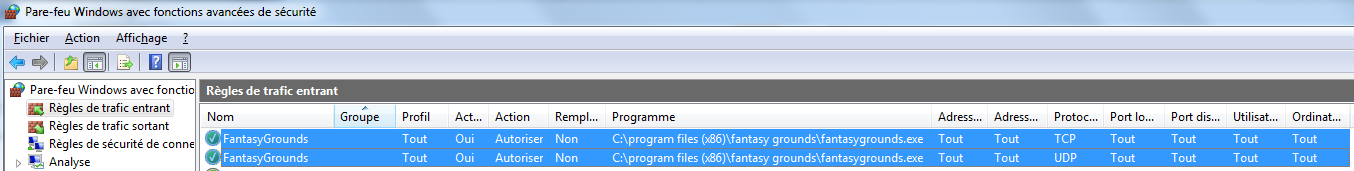
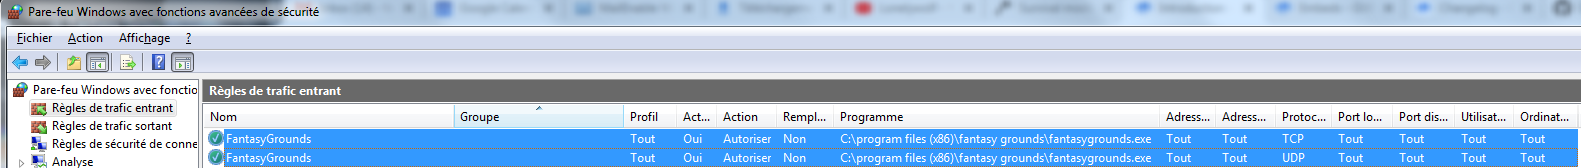
GitBook: [master] 7 pages and 3 assets modified

diff --git a/to-be-rewritten/zzz-initial-article-to-be-formatted.md b/to-be-rewritten/zzz-initial-article-to-be-formatted.md
@@ -1,4 +1,4 @@
-# ZZZ-Initial raw article to be formatted
+# ZZZ-Initial raw article to be re-written
 
 A small OpenVPN virtual server on AWS to publish Fantasy Grounds through a 1-DM-only VPN By ZeFerby
 
@@ -96,7 +96,7 @@ My-CA-for-FG-OVPN\my-fg-ovpn-single-dm Must contain : my-fg-ovpn-ca.crt \(from s
 
 Details for Step 6 : Create your FG-OpenVPN Linux server in your AWS Virtual Private Cloud
 
-6.0- Head over to the AWS EC2 Console 6.1- Choose an AZ/subnet in your AWS VPC, with Internet access \(you will need a private IP + a public IP\) 6.2- Select a private IP for your OpenVPN server in the subnet you chose if you want it to be static \(not required if using my auto-configuration script\) 6.3- Create/Launch a new instance : 6.3.1- Select the basic Amazon Linux AMI \(64-bit, HVM, SSD volume type\) 6.3.2- Select a small \(free tier elligible\) t2.micro instance type and click "Next: Configure Instance Details" 6.3.3- Instance Details : 6.3.3.1- Select Your Network/VPC and your AZ/subnet, be sure to have Auto-assign Public IP=Enable 6.3.3.2- Select your EC2 role \(from step 4.3\) 6.3.3.3- If you chose a static Private IP at step 6.2, specify it in the "eth0" network interface "Primary IP" 6.3.3.4- Expand the "Advanced Details" section and copy "as text" the entire contents of my-fg-ovpn-UserData.txt \(properly edited at step 5.2\) in the "UserData" entry box. 6.3.3.9- Finally, click "Next: Add Storage" 6.3.4- Keep all defaults and click "Next: Add Tags" 6.3.5- If you want, you can add tags \(name/value pairs\) like Name : MyFGovpn, finish with a click on "Next: Configure Security Group" 6.3.6- Select the Security Group you created at Step 4.1, then click "Review and Launch" 6.3.7- You can review all the settings and go back to previous steps to edit your choices, before ending with the "Launch" button 6.3.8- Then if you don't already have an AWS SSH key you'll need to create one and download it \(to be used with PuTTY for SSH access\) 6.4- While you server is being created and begins it's auto-configuration, copy it's Public IP 6.5- Using your Windows OpenVPN GUI, right click/edit config to enter the Public IP on the "remote" line, then close/save the file. 6.6- Enjoy !
+6.0- Head over to the AWS EC2 Console6.1- Choose an AZ/subnet in your AWS VPC, with Internet access \(you will need a private IP + a public IP\) 6.2- Select a private IP for your OpenVPN server in the subnet you chose if you want it to be static \(not required if using my auto-configuration script\) 6.3- Create/Launch a new instance : 6.3.1- Select the basic Amazon Linux AMI \(64-bit, HVM, SSD volume type\) 6.3.2- Select a small \(free tier elligible\) t2.micro instance type and click "Next: Configure Instance Details" 6.3.3- Instance Details : 6.3.3.1- Select Your Network/VPC and your AZ/subnet, be sure to have Auto-assign Public IP=Enable 6.3.3.2- Select your EC2 role \(from step 4.3\) 6.3.3.3- If you chose a static Private IP at step 6.2, specify it in the "eth0" network interface "Primary IP" 6.3.3.4- Expand the "Advanced Details" section and copy "as text" the entire contents of my-fg-ovpn-UserData.txt \(properly edited at step 5.2\) in the "UserData" entry box. 6.3.3.9- Finally, click "Next: Add Storage" 6.3.4- Keep all defaults and click "Next: Add Tags" 6.3.5- If you want, you can add tags \(name/value pairs\) like Name : MyFGovpn, finish with a click on "Next: Configure Security Group" 6.3.6- Select the Security Group you created at Step 4.1, then click "Review and Launch" 6.3.7- You can review all the settings and go back to previous steps to edit your choices, before ending with the "Launch" button 6.3.8- Then if you don't already have an AWS SSH key you'll need to create one and download it \(to be used with PuTTY for SSH access\) 6.4- While you server is being created and begins it's auto-configuration, copy it's Public IP 6.5- Using your Windows OpenVPN GUI, right click/edit config to enter the Public IP on the "remote" line, then close/save the file. 6.6- Enjoy !
 
 Important : Remember this: with these basic settings, each time you start your virtual machine it will get a new public IP, so you'll have to :
 

diff --git a/general/vpn-solutions.md b/general/vpn-solutions.md
@@ -4,18 +4,18 @@
 Thankfully, if you find yourself in a NO-GO situation, and **as long as your can establish outgoing connections** to the Internet, **you should be able to use some kind of VPN-based solution**.
 {% endhint %}
 
-There are **multiple commercial offers for VPN services** available nowadays.
+There are **multiple commercial offers for VPN \(=Virtual Private Network\) services** available nowadays.
 
 Many of them are targetted at : either hiding your own public IP address, or gaining full access to the Internet in countries where the government imposes harsh restrictions.
 
 Others provide one or multiple kinds of "real" VPNs functionnality like "closed VPNs".
 
-**Some of them** \(like [Hamachi](https://www.vpn.net/), which is well knwown in the gaming sphere\) **provide a free tier**.
+**Some of them** \(like [Hamachi](https://www.vpn.net/), which is well known in the gaming sphere\) **provide a free tier**.
 
 {% hint style="info" %}
 I have not actively tested commercial VPN offers other than Hamachi.
 
-Hamachi is a very neat solution for "closed VPNs" with multiple options for network setup and it supports Windows, Mac, Linux and mobile platforms.
+Hamachi is a very neat solution for "closed" VPNs with multiple options for network setup and it supports Windows, Mac, Linux and mobile platforms.
 
 Their free tier is very good and quite sufficient for FG-like requirements \(you can host 4 players in a free VPN and create multiple VPNs simultaneously for more players if needed\).
 
@@ -55,15 +55,15 @@ Be cautious about several points :
 * VPN service offers **do not mandatorily have an available/reliable free tier**
 * VPN service offers **do not mandatorily support forwarding TCP 1802**
 
-## Your own VPN server based on industry standards
+## Your own 1 GM-only VPN server based on industry standards
 
 What we propose in the following sections is creating your own VPN server to "break barriers 4-6" :
 
 * based on **SSL/TLS with** [**OpenVPN Community**](https://openvpn.net/community/) edition
 * hosted on a **minimalist Linux virtual server at AWS** \(Amazon Web Services\)
 * **mono-client** : the GM \(you\) only
-* with pre-installed **FG-only port forwarding**
-* for a **cost of $0 or a neglectable cost** if are not elligible for the free tier or already exceed its bounds due to other usage of AWS
+* with pre-installed **FG-only port forwarding** \(this is independant of the VPN itself\)
+* for a **cost of $0 \(or a neglectable cost** if you are not elligible for the free tier or already exceed its bounds due to other usage of AWS\)
 * **"transparent" for the players**
 * **non-intrusive for the GM's machine**
 * **100% under your own control** : **you** are the VPN service provider, and you are your **only** client 😁 
@@ -73,7 +73,7 @@ It does require some initial setup effort, which then makes it a no-brainer to s
 {% hint style="info" %}
 If you want to discover more/advanced options, **OpenVPN has nearly endless possibilities**.
 
-I have now used it since 2004 both for professional and personal usage and it is **to this day my preferred VPN foundation, including for mobile platforms**.
+I have now used it since 2004 both for professional and personal usage in various server and clients configurations, on Linux/Windows/Android, and it is **to this day my preferred VPN foundation, including for mobile platforms**.
 
 Quite a number of commercial VPN offers either rely on, or support OpenVPN.
 {% endhint %}

diff --git a/general/transparent-openvpn-solution-presentation.md b/general/transparent-openvpn-solution-presentation.md
@@ -1,4 +1,60 @@
 # Non-intrusive, "transparent" VPN-based Port Forwarding
 
-x
+We already gave the salient points about the kind of setup we propose in the previous paragraph, so let's have a closer look at the Why's and How's...
+
+## Objectives
+
+### Primary objective
+
+{% hint style="success" %}
+#### For 1 GM, ability to host FG games even in a "NO-GO situation"
+{% endhint %}
+
+Relying on **a hosted virtual machine which can accept TCP 1802** incoming connections from the Internet, **forward "transparently" all TCP 1802 traffic to and from the GM's machine** on a VPN-secured private connection.
+
+### Secondary objectives
+
+* **do NOT require a VPN connection on the players side** : by handling all port forwarding aspects on a single "point of contact" \(the VPN server for the GM is also the GM's FG address as seen from the players\)
+* provide the **least possible "intrusiveness" to the GM's machine configuration**
+* **minimize costs for the GM** to $0 or at most &lt; $10/year
+* introduce **NO dependancy for the GM on any external company/organization** \(except of course the need of virtual server hosting\)
+
+### Other benefits
+
+* **most possible versatile solution** : OpenVPN, when you have administrative of both the VPN server and client, enables you to taylor the solution according to you exact wishes
+* "owned" security : **You have absolute authority** on your whole setup and **you don't need to "share" any security info with anyone**
+* fully "destroyable" : **you can easily get rid** of your whole VPN infrastructure at any time
+
+### Drawbacks
+
+* **Initial setup effort** : we'll mitigate that with step-by-step instructions on the whole process
+* **FG Alias and "Connection test" will not work** \(like most other VPN-based solutions\) : you'll have to either rely on DNS or give the public IP of your VPN server to your players instead of an alias
+
+
+
+## Implementation
+
+You will build :
+
+* **a Certificate Authority** on your own machine \(to keep the core security off-line from the VPN server itself\) with which you'll manage the certificates identifying the VPN server and the VPN clients. _Actually you'll need only one client certificate : your own GM FG machine_
+* **a private AWS storage space \(called an "AWS S3 bucket"\)**, to store some security parameters and startup scripts for the VPN server
+* a small **AWS virtual server to run the VPN and TCP 1802 port forwarding**, **auto-configured at startup \(**using the security parameters and startup script files stored in the S3 bucket\)
+
+{% hint style="success" %}
+This technique \(keeping parameters and scripts in S3\) **enables you to destroy \(AWS calls that "terminate"\) and re-create your virtual server at will.**
+{% endhint %}
+
+{% hint style="info" %}
+That helps **bringing the running costs down to nearly $0 even if you are outside of the AWS free tier bounds**, and the server startup delay is neglectable.
+
+If you prefer, you can also **start/stop the virtual server**, keeping its "hard disk" storage between multiple uses instead of having it destroyed, but if you are outside of the AWS free tier you may incurr a small monthly cost, and this server should not store any data anyway, so...
+{% endhint %}
+
+
+
+
+
+
+
+
 

diff --git a/general/introduction.md b/general/introduction.md
@@ -12,7 +12,7 @@ As a Game Master, **hosting a virtual table** implies that the table \(= actuall
 Fantasy Grounds \("Classic"\) uses **TCP port 1802 on IPv4** for communications between the GM and player Fantasy Grounds instances.
 {% endhint %}
 
-So, to join a GM's virtual table, **a player's FG only has to know/find the GM's IP address** where it will be able to connect to \(on the TCP 1802 port\).
+So, to join a GM's virtual table, **a player's FG only has to know/find the GM's IP address** where it will be able to connect to \(always on the TCP 1802 port\).
 
 The IP\(v4\) address used will be one of :
 
@@ -20,7 +20,7 @@ The IP\(v4\) address used will be one of :
 2.  the **GM's "private IP"** address for players located **in the same local network**
 
 {% hint style="warning" %}
-Be aware of the above **distinct requirements for player connection from the Internet / from the in-house network** \(same ethernet LAN or wireless access point\).
+Be aware of the above **distinct requirements for player connection from the Internet vs. from the in-house network** \(same ethernet LAN or wireless access point\).
 {% endhint %}
 
 ## What can go wrong ?
@@ -31,7 +31,7 @@ Network setup combinations are infinite; in this docment we focus on the usual "
 
 So let's have a quick look at the barriers between your players and your shiny new virtual table, starting from your own "GM Fantasy Grounds" outwards; with "Barrier 4" we'll go into the "**Port Forwarding**" subject many GMs are afraid of.
 
-Then we'll talk about some no-go situations that relate to the last 2 barriers and are "out of reach" for the GM.
+Then we'll talk about some no-go situations that relate to the last 3 barriers and are "out of reach" for the GM.
 
 And finally we'll introduce VPN solutions and more specifically the non-intrusive "transparent" setup we present in the rest of this document, and how it enables a GM to overcome these barriers.
 
@@ -40,7 +40,7 @@ The following can also be used as a reminder / check-list for every GM out there
 {% endhint %}
 
 {% hint style="success" %}
-You can **test the first 3 "barriers" locally with 2** _**different**_ **machines** : one being the GM sharing the virtual table, and the other acting as a "local" player : a player on a _different machine than the GM's, but connected to the same \(W\)LAN._
+You can **test the first 3 "barriers" locally with 2** _**different**_ **machines** : one being the GM sharing the virtual table, and the other acting as a "local" player : a player on a _different machine than the GM's, but connected to the same LAN or WLAN._
 
 A demo version of FG on the second machine is ok for this kind of test.
 {% endhint %}

diff --git a/general/gms-machine-barriers.md b/general/gms-machine-barriers.md
@@ -11,7 +11,7 @@ _**Breaking these barriers** should be enough to **successfully host a game for 
 Windows 10 has a setting to classify each network it is connected to as :
 
 * either "pubic" \(read : "not safe"\)
-* or "private" \(read: "safe"\)
+* or "private" \(read : "safe"\)
 
 Windows 10 will prevent incoming connections from "public" networks, including Fantasy Grounds, so be sure to 👍 **tag your current W10 network connection as "private"**, **or else...** 👎 
 
@@ -21,15 +21,15 @@ _**TODO : W10 screenshots needed here**_
 
 Be sure to 👍 **allow incoming communications to your TCP 1802, or better yet** 👍👍 **to your Fantasy Grounds executable program in the operating system firewall**, **or else...** 👎 
 
-_Here is an example of Windows 7 firewall rules authorizing **any kind of incoming connection** to the Fantasy Grounds program, with TCP+UDP protocols and the "ALL" value for networks, adresses and ports parameters \(W7 Firewall "advanced" view\) :_
+_Here is an example of Windows 7 firewall rules authorizing **any kind of incoming connection to the Fantasy Grounds program**, with TCP+UDP protocols and the "ALL" value for networks, adresses and ports parameters \(W7 Firewall "advanced" view\) :_
 
-![W7 &quot;All Incoming&quot; rules example for F.G. ](../.gitbook/assets/image%20%281%29.png)
+![W7 &quot;All Incoming&quot; rules example for F.G. ](../.gitbook/assets/image%20%282%29.png)
 
 _**TODO : Other screenshots needed here**_
 
 ## Barrier 3 👹 : Third-party protection software
 
-If you are using any kind of  third-party anti- malware/virus/threat protection software, chances are that you also need to 👍 **enable incoming communications for FG in these**, **or else...** 👎 
+If you are using **any kind of  third-party anti- malware/virus/threat protection software**, chances are that you also need to 👍 **enable incoming communications for FG in these**, **or else...** 👎 
 
-_**TODO : Other screenshots needed here**_
+_**TODO : Other screenshots needed here ?**_
 

diff --git a/general/internet-connection-barriers.md b/general/internet-connection-barriers.md
@@ -1,6 +1,6 @@
 # Internet connection barriers
 
-The last 3 points relate to your Internet connection itself.
+The last 3 points relate to your Internet connection.
 
 {% hint style="info" %}
 **Most GMs** have a single "Internet router" and **do not have to bother about Barrier 6**

diff --git a/SUMMARY.md b/SUMMARY.md
@@ -21,5 +21,5 @@
 
 ## To be rewritten
 
-* [ZZZ-Initial raw article to be formatted](to-be-rewritten/zzz-initial-article-to-be-formatted.md)
+* [ZZZ-Initial raw article to be re-written](to-be-rewritten/zzz-initial-article-to-be-formatted.md)
 
